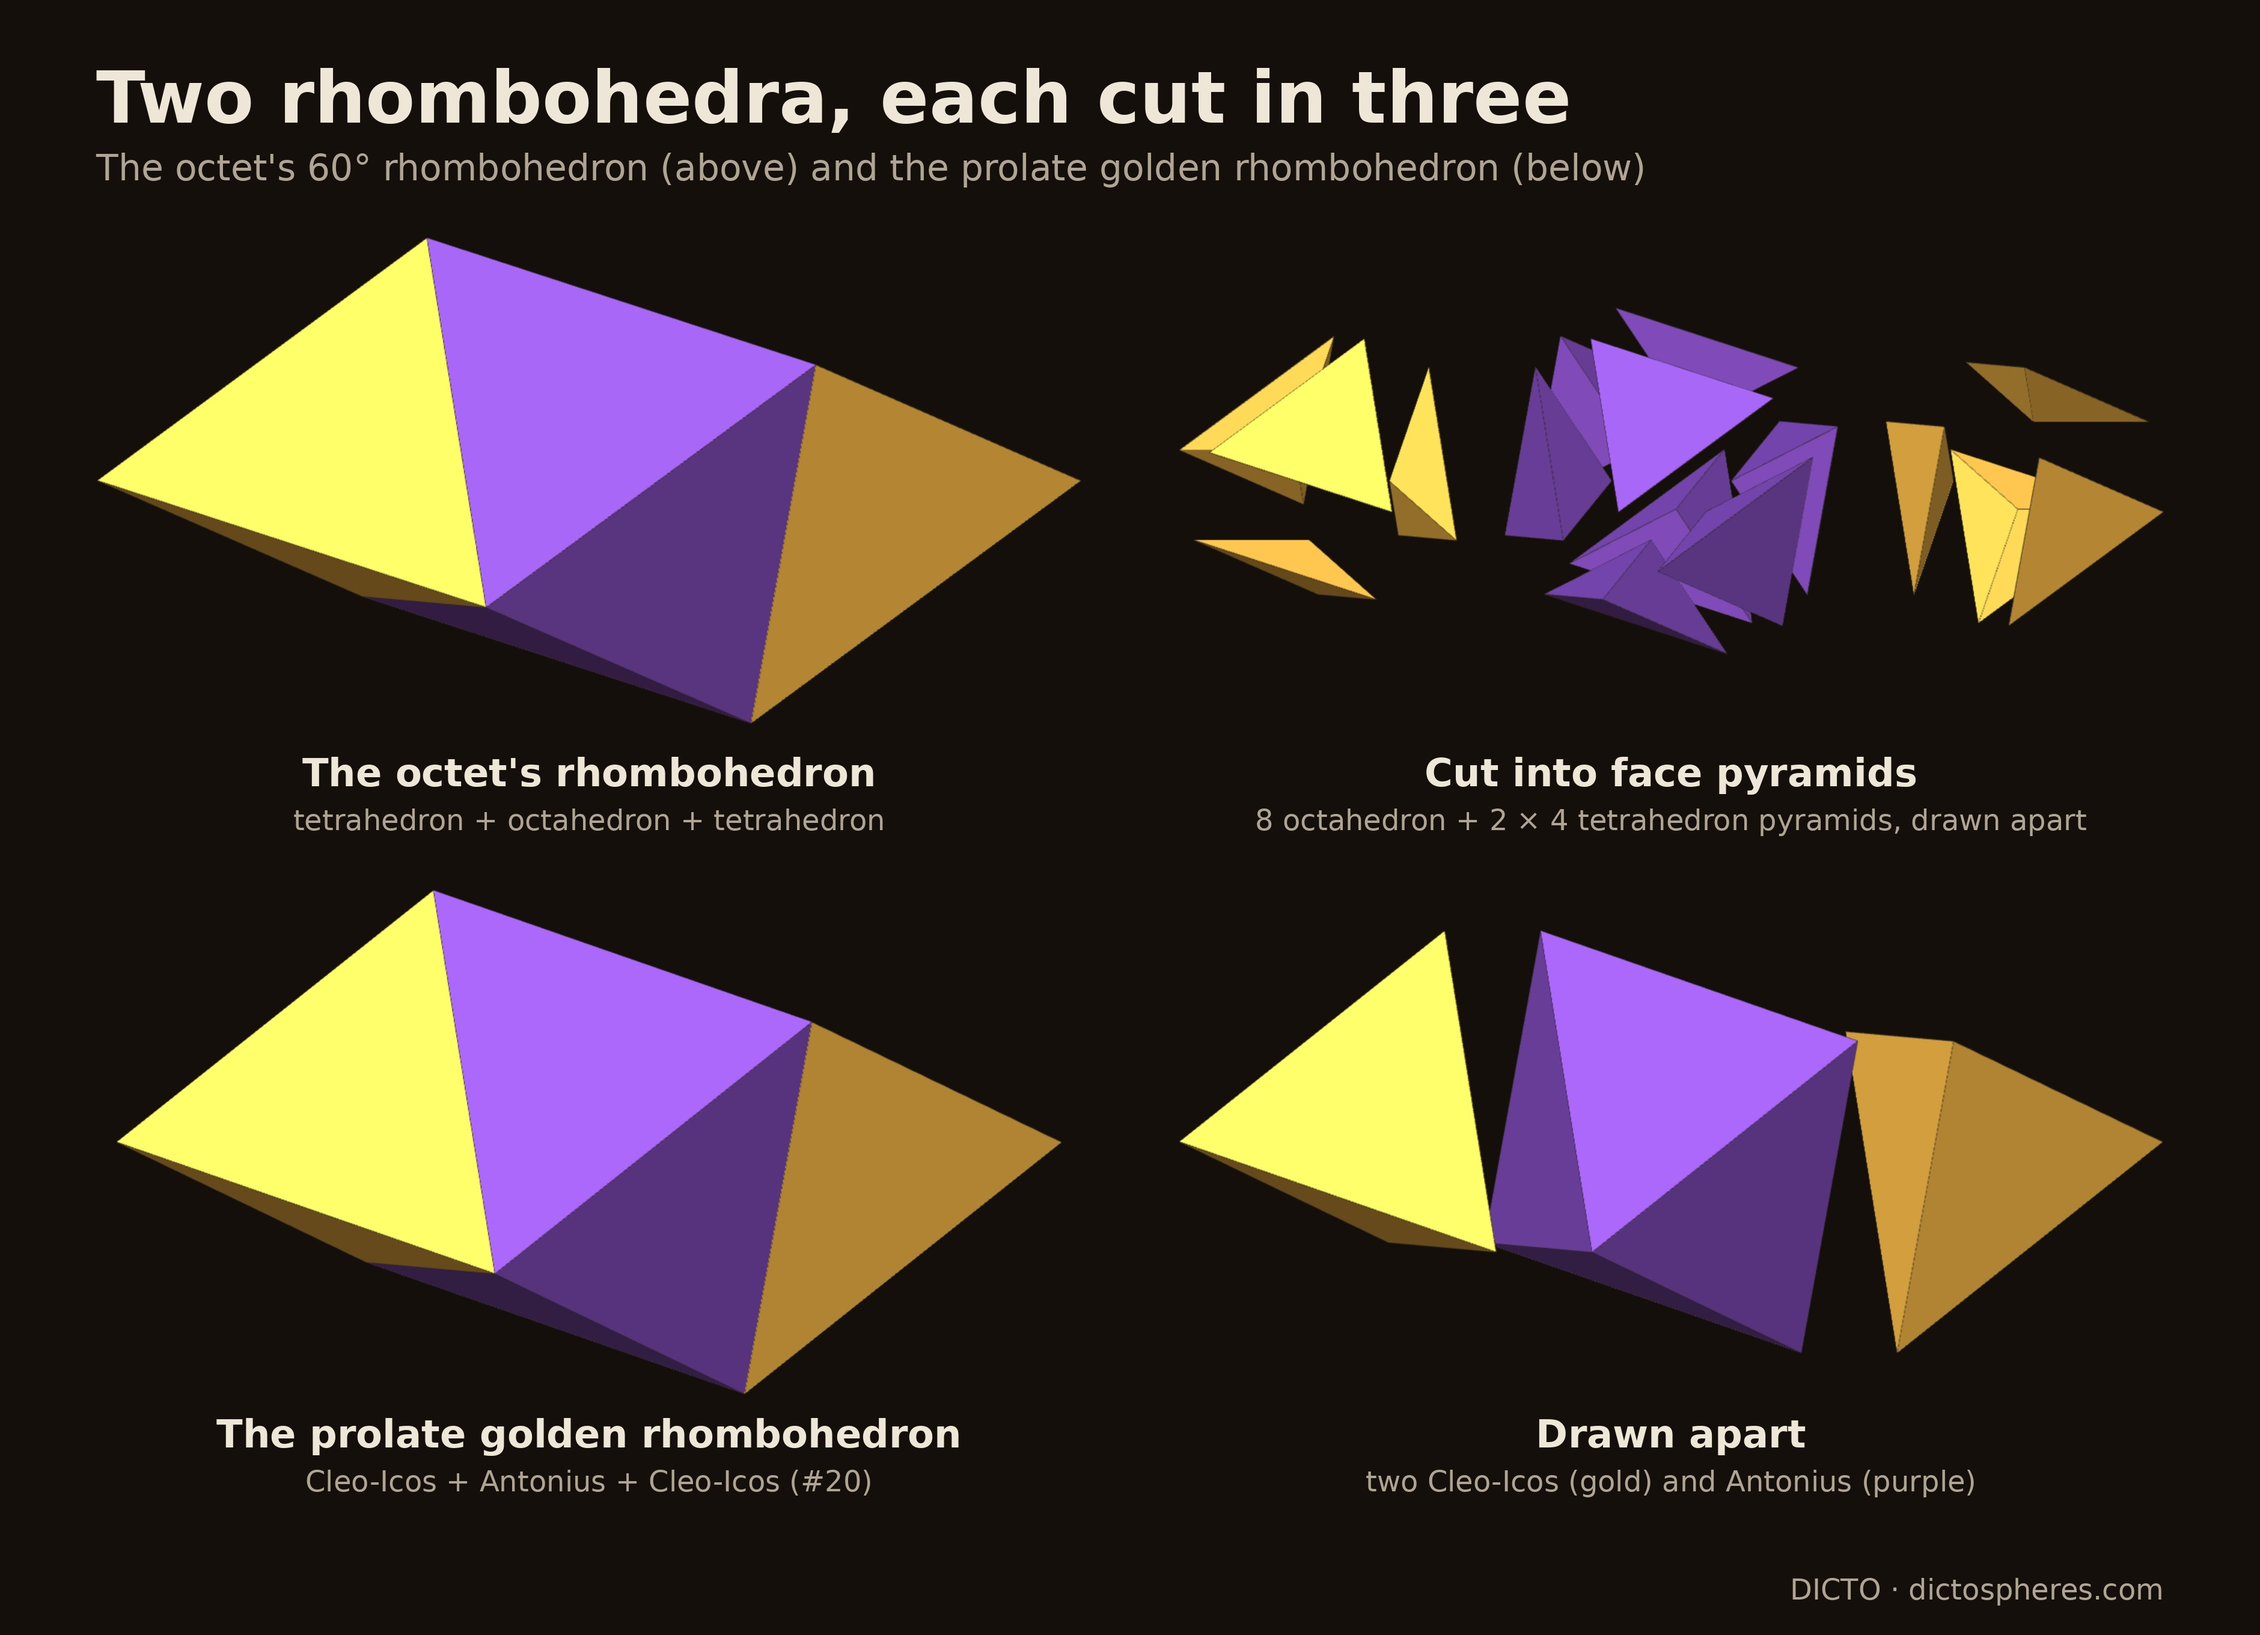
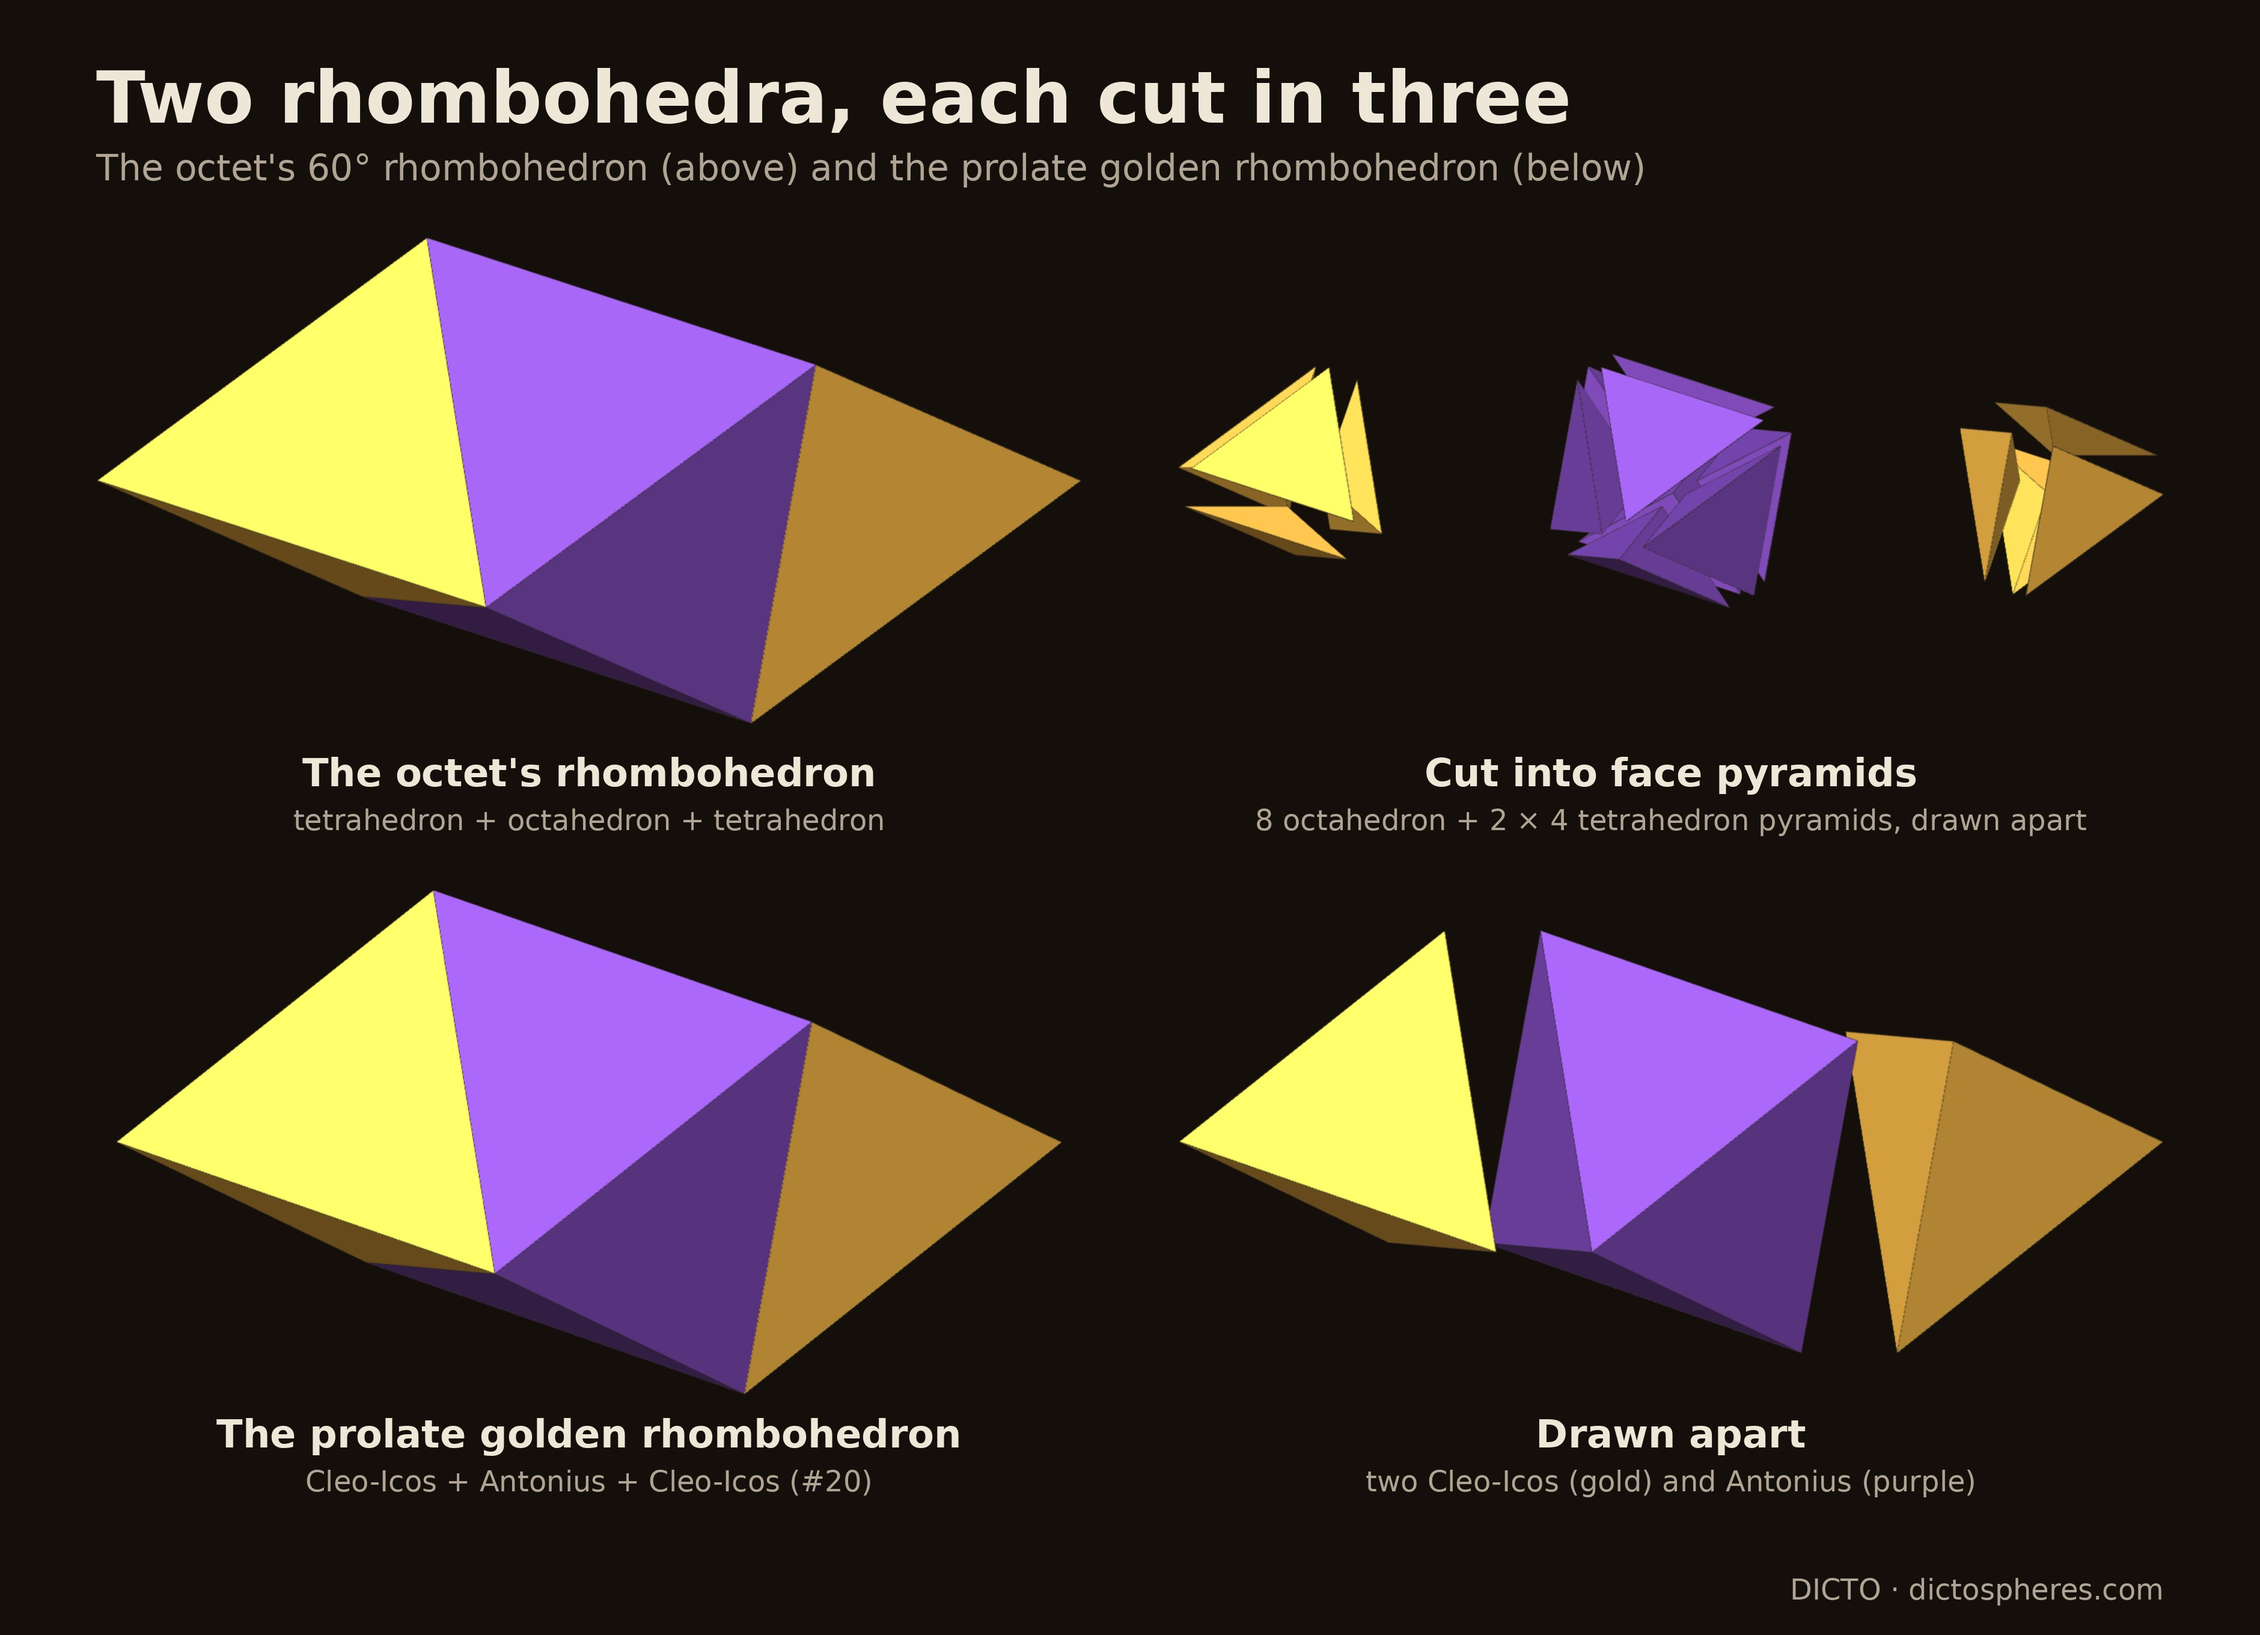
Aristotle pyramids: slab check ({C, T, O} fills space, 46 PASS); cleaner exploded octet cell in the figure

Changed region(s): [[0.529, 0.1875, 0.9646, 0.4062]]

diff --git a/studies/2026-10-21-aristotle-pyramids/pyramid_checks.py b/studies/2026-10-21-aristotle-pyramids/pyramid_checks.py
@@ -154,6 +154,24 @@ ed = tuple(4 * PYR['tetrahedron']['base'][i] + 4 * PYR['octahedron']['base'][i] 
 chk(ed == (2, 0, 0, 0), 'round an octet edge (2 tetrahedra, 2 octahedra) the pyramids give 4 x alpha/2 + 4 x (pi - alpha)/2 = 2 pi')
 hb = PYR['tetrahedron']['n'] * PYR['tetrahedron']['base'][1] + PYR['octahedron']['n'] * PYR['octahedron']['base'][1]
 chk(hb == 0, f'h-weighted base edges, one tetrahedron pyramid + one octahedron pyramid of the same edge: 3 x (+1/2) + 3 x (-1/2) = {hb}')
+# the three kinds together: in the octet with octahedra centred at the integer points of odd coordinate sum (corners at +-1 along the
+# axes) and tetrahedra in the unit cubes (corners at the even-sum corners), every face pyramid lies in a slab k <= z <= k + 1, so each
+# plane z = k is made of pyramid faces: the octet's pyramids fill z <= 0 and the cube pyramids of unit cubes fill z >= 0
+E3 = [V(*[s if k == i else 0 for k in range(3)]) for i in range(3) for s in (1, -1)]
+slab_ok, nO, nT = True, 0, 0
+for c in itertools.product(range(-1, 2), repeat=3):
+    if sum(c) % 2 == 0: continue
+    cc = V(*c); Oct = [add(cc, e) for e in E3]
+    for f in hull(Oct)[0]:
+        zs = [Oct[i][2][0] for i in f] + [cc[2][0]]; nO += 1
+        slab_ok &= max(zs) - min(zs) <= 1
+for c in itertools.product(range(-1, 1), repeat=3):
+    Tt = [V(*[c[i] + p[i] for i in range(3)]) for p in itertools.product((0, 1), repeat=3) if (sum(c) + sum(p)) % 2 == 0]
+    cen = [(sum(t[i][0] for t in Tt) / 4, Fr(0)) for i in range(3)]
+    for f in hull(Tt)[0]:
+        zs = [Tt[i][2][0] for i in f] + [cen[2][0]]; nT += 1
+        slab_ok &= max(zs) - min(zs) <= 1 and min(zs) == int(min(zs))
+chk(slab_ok and nO == 14 * 8 and nT == 8 * 4, f'octet patch ({nO} octahedron and {nT} tetrahedron pyramids): every face pyramid lies in a slab k <= z <= k + 1, so the planes z = k are unions of pyramid faces and cube pyramids can fill one side')
 print('\n== 5. Cleo-Icos + Antonius + Cleo-Icos = the prolate golden rhombohedron (#20; exact)')
 I = S['icosahedron']; Fi, _ = hull(I); f0 = sorted(Fi, key=lambda k: sorted(k))[0]; u, v, w = [I[i] for i in sorted(f0)]
 cu = qd(dot(u, v), dot(u, u))

diff --git a/studies/2026-10-21-aristotle-pyramids/aristotle_figs.py b/studies/2026-10-21-aristotle-pyramids/aristotle_figs.py
@@ -61,8 +61,8 @@ X = lambda P, s=0: F(np.array(P) - c0 + s * L / np.linalg.norm(L))
 scenes.append({'title': 'The octet\'s rhombohedron', 'sub': 'tetrahedron + octahedron + tetrahedron', 'E': 1.85,
                'parts': [part(X(T1), GOLD), part(X(M), PURPLE), part(X(T2), GOLD)]})
 pp = []
-for P, col, s in [(T1, GOLD, -1.7), (M, PURPLE, 0.0), (T2, GOLD, 1.7)]:
-    for Q, n in pyramids(np.array(P)): pp.append(part(X(np.array(Q) + 0.45 * n, s), col))
+for P, col, s in [(T1, GOLD, -2.3), (M, PURPLE, 0.0), (T2, GOLD, 2.3)]:
+    for Q, n in pyramids(np.array(P)): pp.append(part(X(np.array(Q) + 0.22 * n, s), col))
 scenes.append({'title': 'Cut into face pyramids', 'sub': '8 octahedron + 2 × 4 tetrahedron pyramids, drawn apart', 'E': 2.55, 'parts': pp})
 # (3) the prolate golden rhombohedron from the icosahedron's centre-to-corner lines of one face
 I = np.array(S['Icosahedron'], float); n, f = faces(I)[0]; u, v, w = f
